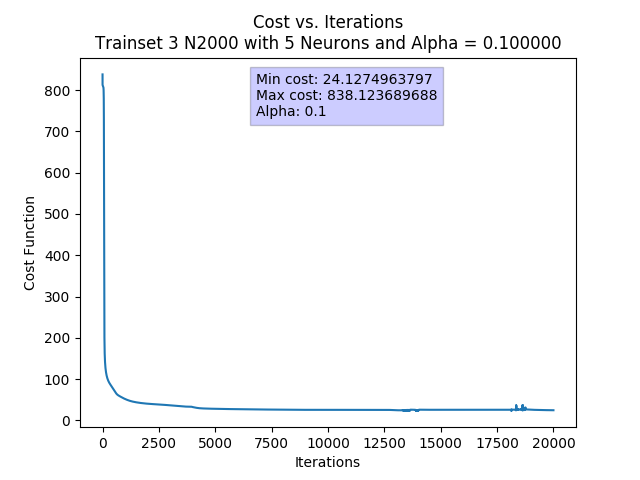
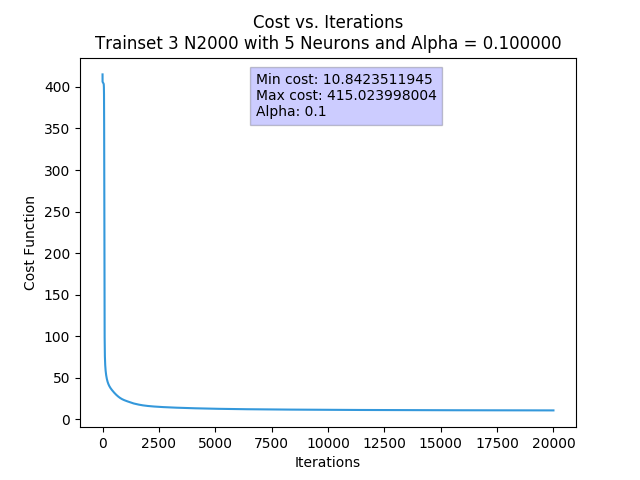
Almos finished data.

diff --git a/excercise2_bestset.py b/excercise2_bestset.py
@@ -15,7 +15,7 @@ from graphics      import draw_dataset, draw_cost_curve, draw_cost_curves
 if __name__ == "__main__":
 
     #loading dataset. This is the best dataset found.
-    besttrainset = readData('./data/datos_P2_EM2017_N2000.txt')
+    besttrainset = readData('./data/datos_P2_EM2017_N2000_2.txt')
 
     #drawing dataset
     # draw_dataset(besttrainset)
@@ -47,7 +47,7 @@ if __name__ == "__main__":
     #                          BEST DATASET 1                           #
     #####################################################################
 
-    datasetname = 'Trainset 3 N2000'
+    datasetname = 'Trainset 6 N2000'
 
     for neurons in neuron_range:
         network = init_network(n_inputs, neurons, n_outputs)
